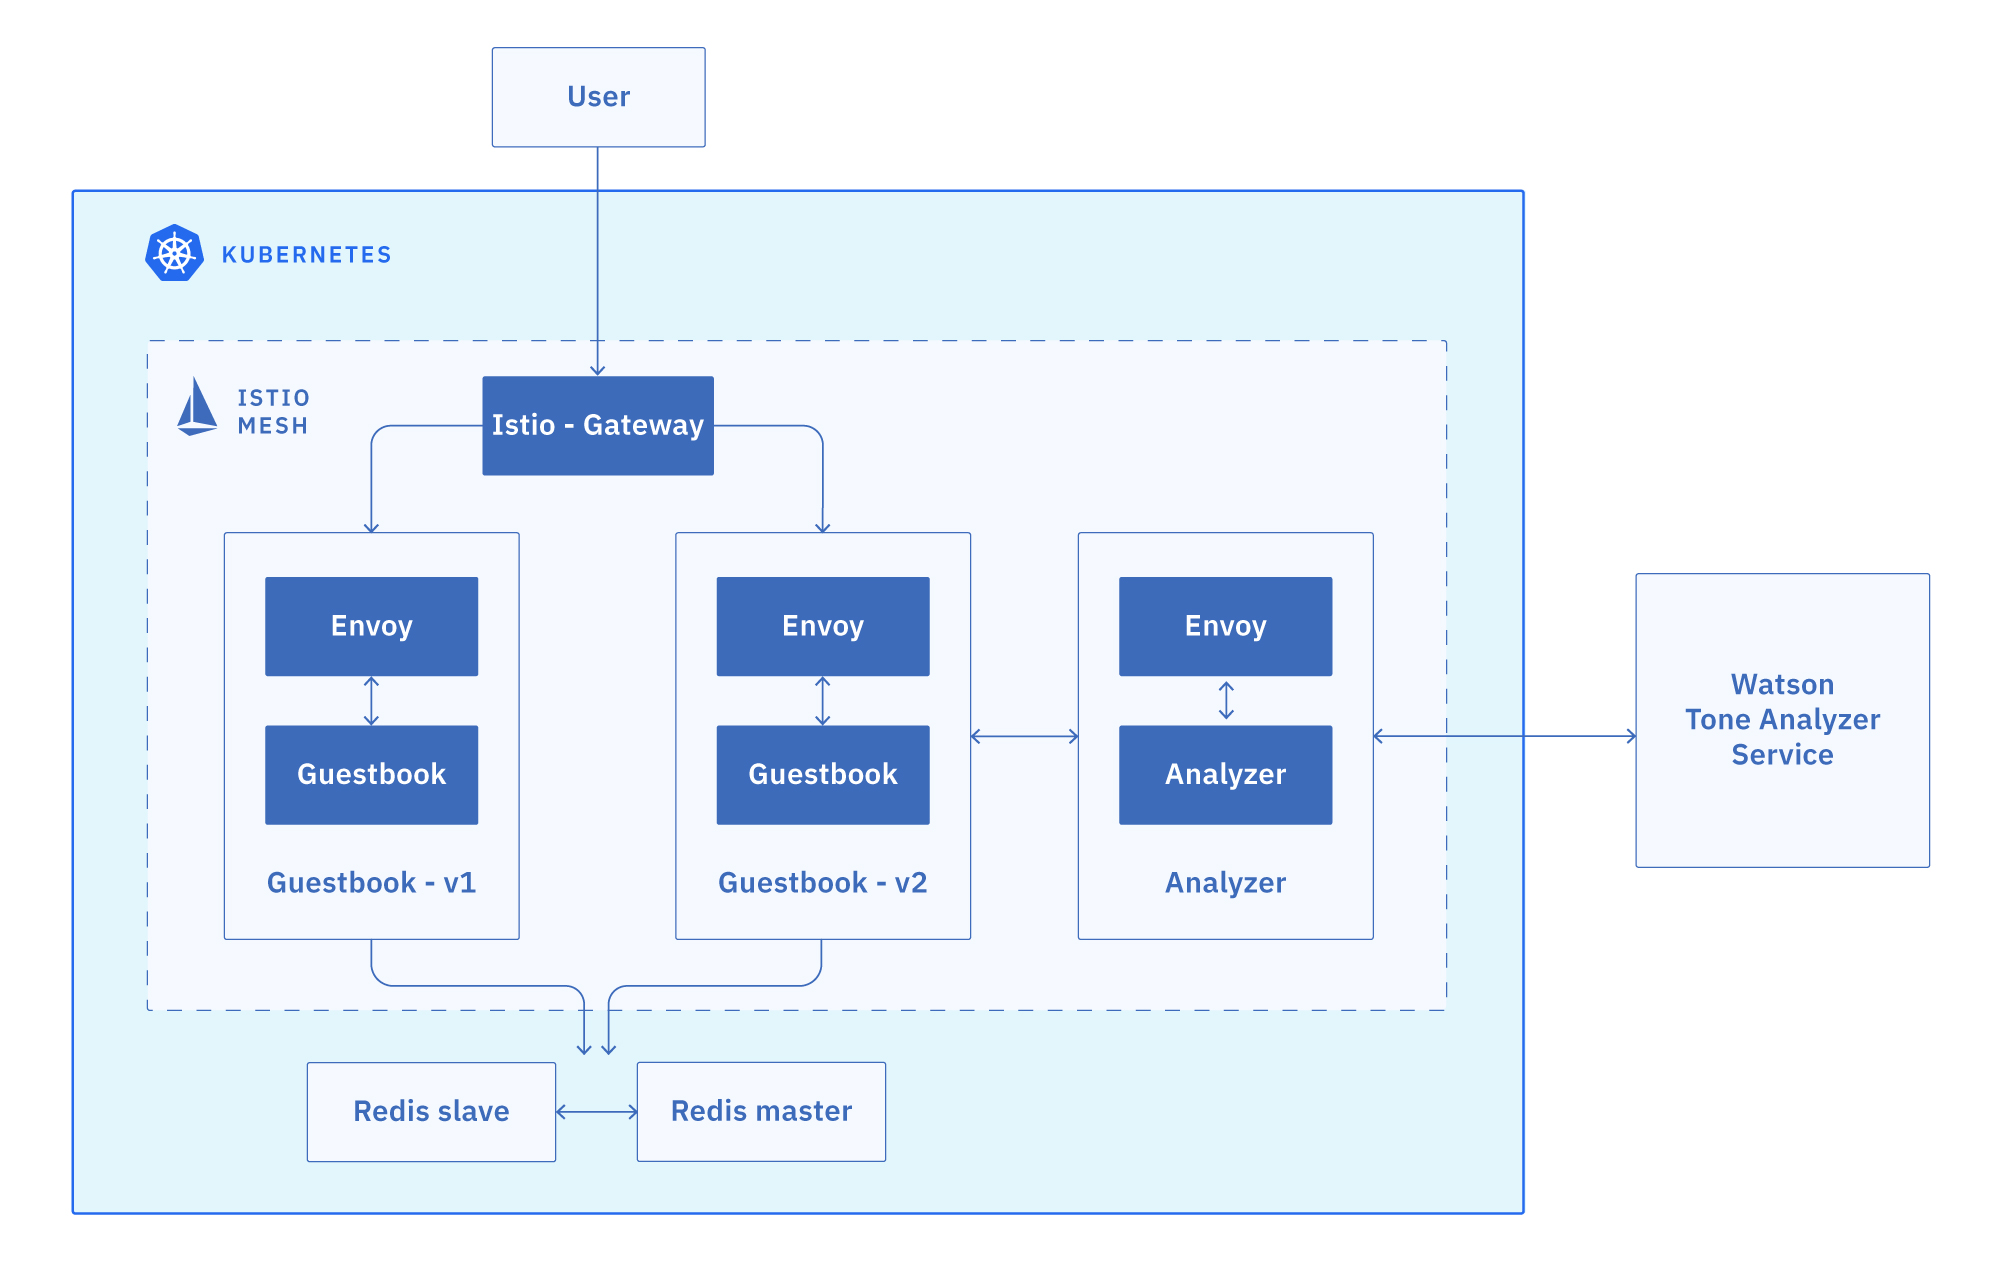
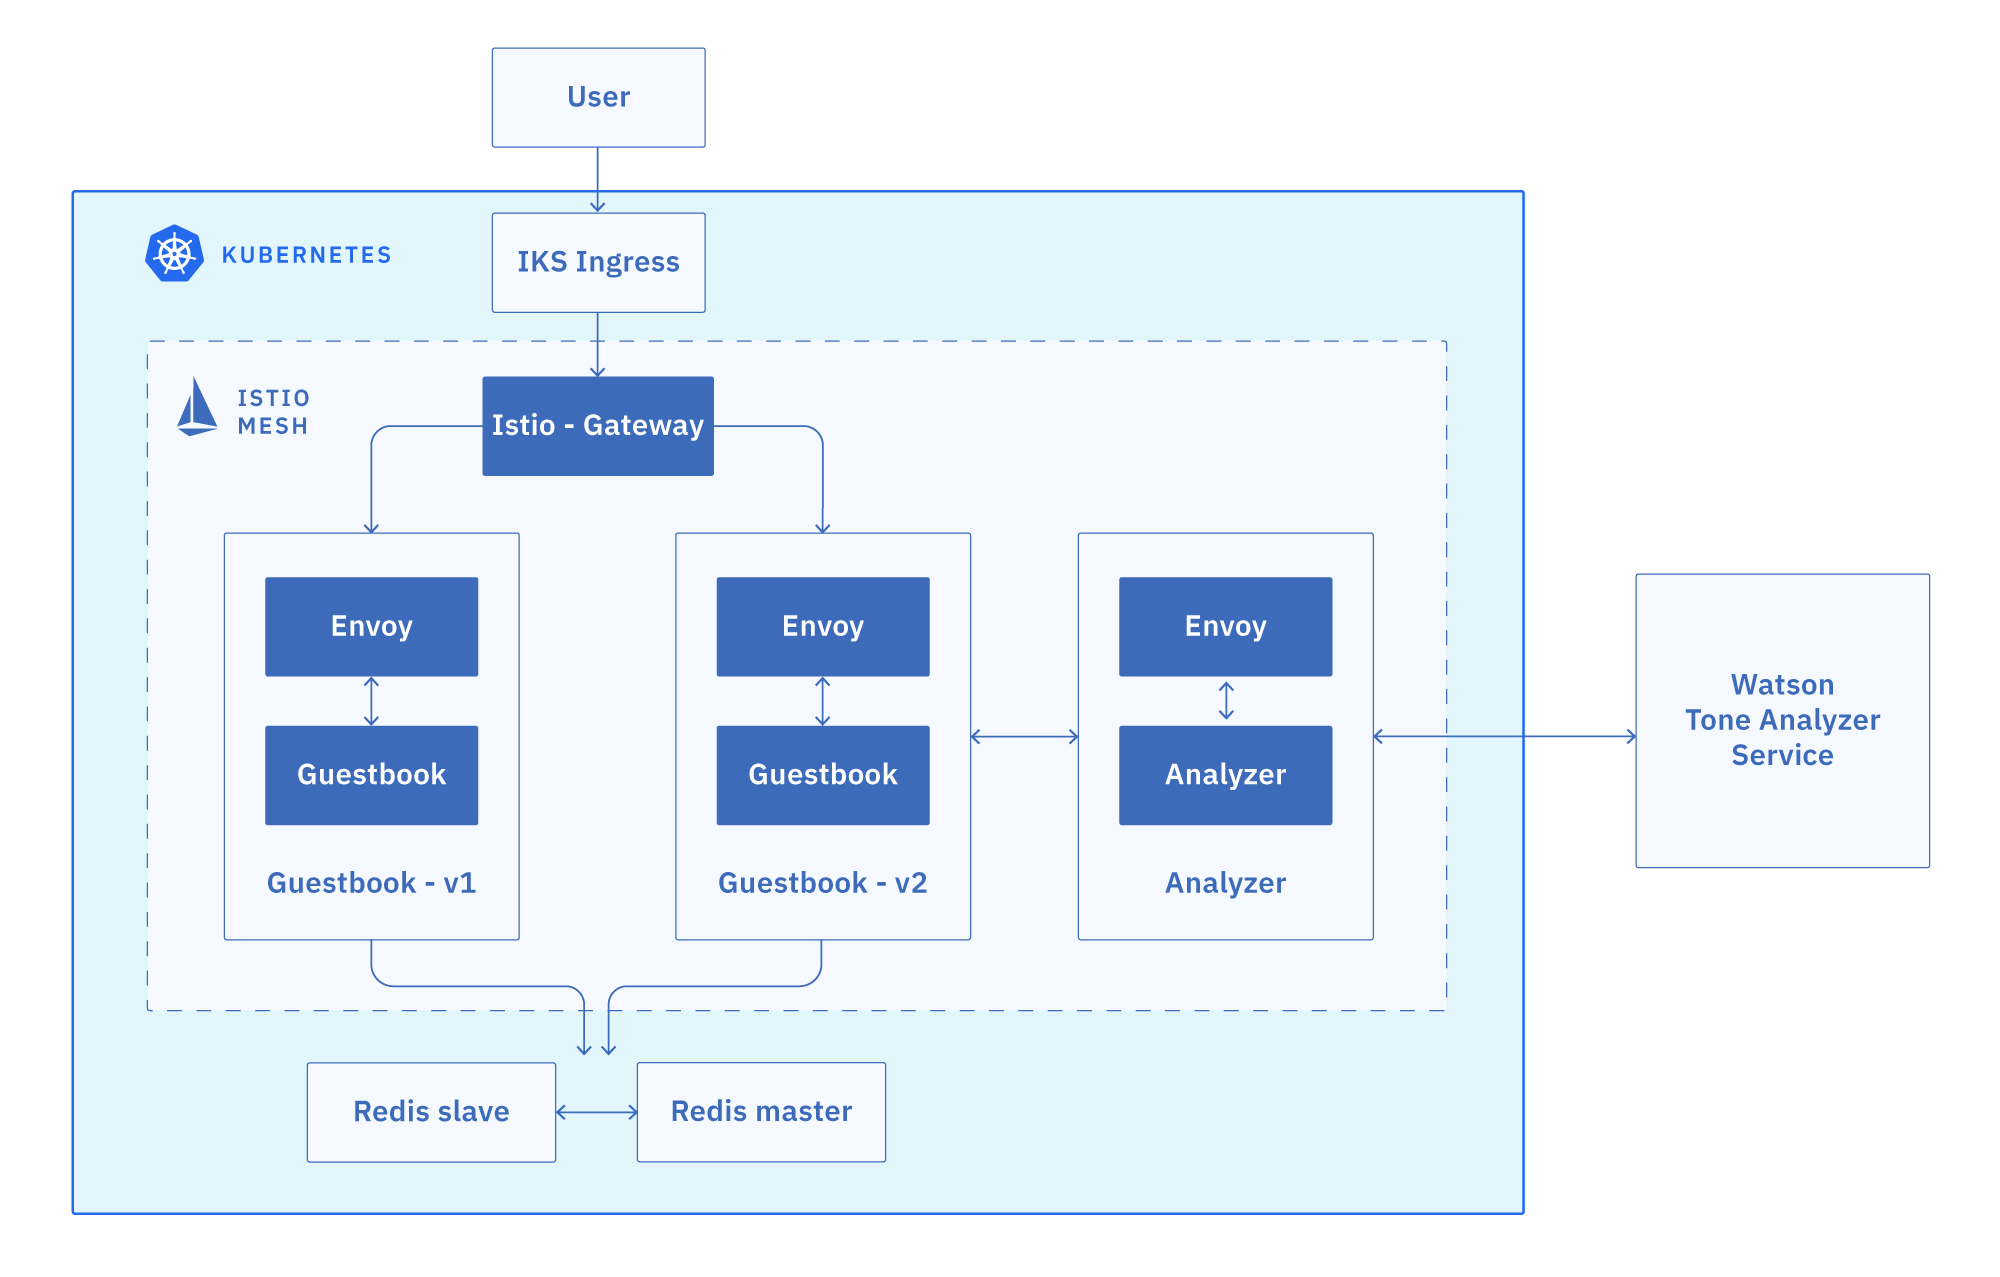
GitBook: [workshop] 3 pages and 5 assets modified

diff --git a/gitbook/overview/observe-telemetry.md b/gitbook/overview/observe-telemetry.md
@@ -53,7 +53,7 @@ We did a grep on the `<title>` from the curl response to show that the loadbalan
 
 ## View guestbook telemetry data
 
-#### Jaeger
+### Jaeger
 
 1. Establish port forwarding from local port 16686 to the Tracing instance:
 
@@ -74,7 +74,7 @@ We did a grep on the `<title>` from the curl response to show that the loadbalan
 
 1. ctrl-c on the terminal when you are done looking at the traces.
 
-#### Grafana
+### Grafana
 
 1. Establish port forwarding from local port 3000 to the Grafana instance:
 
@@ -90,7 +90,7 @@ We did a grep on the `<title>` from the curl response to show that the loadbalan
 
 1. ctrl-c on the terminal when you are done looking at the graph.
 
-#### Prometheus
+### Prometheus
 
 1. Establish port forwarding from local port 9090 to the Prometheus instance.
 
@@ -106,7 +106,7 @@ We did a grep on the `<title>` from the curl response to show that the loadbalan
 
 1. ctrl-c on the terminal when you are done looking at the logs.
 
-#### Service Graph
+### Service Graph
 
 1. Establish port forwarding from local port 8088 to the Service Graph instance:
 
@@ -120,7 +120,7 @@ We did a grep on the `<title>` from the curl response to show that the loadbalan
 
 ![service-logs](../.gitbook/assets/service-logs%20%281%29.png)
 
-#### Kiali
+### Kiali
 
 Kiali is an open-source project that installs on top of Istio to visualize your service mesh. It provides deeper insight into how your microservices interact with one another, and provides features such as circuit breakers and request rates for your services.
 
@@ -161,7 +161,10 @@ Kiali is an open-source project that installs on top of Istio to visualize your 
 
 2. Go to [http://localhost:8084](http://localhost:8084) to access kiali dashboard. Use admin/admin as username and password.
 3. Click the "Graph" tab on the left side to see the a visual service graph of the various services in your Istio mesh. You can see request rates as well by clicking the "Edge Labels" tab and choosing "Traffic rate per second".
-4. When done ctrl-c on terminal to close connection.
+
+![](../.gitbook/assets/image.png)
+
+4. On the terminal ctrl-c to close connection.
 
 ## Understand what happened
 

diff --git a/gitbook/overview/expose-service.md b/gitbook/overview/expose-service.md
@@ -4,7 +4,7 @@ The components deployed on the service mesh by default are not exposed outside t
 
 An Ingress Gateway resource can be created to allow external requests through the Istio Ingress Gateway to the backing services.
 
-![](../.gitbook/assets/image%20%282%29.png)
+![](../.gitbook/assets/image%20%284%29.png)
 
 ### Expose the Guestbook app with Ingress Gateway
 
@@ -46,7 +46,7 @@ The Ingress resource provides IBM Cloud users with a secure, reliable, and scala
 
 To use this IBM provided DNS for the Guestbook app, you must set the Kubernetes Ingress application load balancer \(ALB\) to route traffic to the Istio Ingress Gateway.
 
-![](../.gitbook/assets/image.png)
+![](../.gitbook/assets/image%20%282%29.png)
 
 1. Let's first check the IBM Ingress subdomain information.
 

diff --git a/gitbook/overview/setup.md b/gitbook/overview/setup.md
@@ -18,7 +18,7 @@ Generally to get started with Kubernetes, the first step is to provision a clust
 
 To get a cluster, head to the [Get Cluster](https://kubernetes-istio-workshop.mybluemix.net) tool.
 
-![](../.gitbook/assets/image%20%281%29.png)
+![](../.gitbook/assets/image%20%283%29.png)
 
 Use the key `istio_rocks_2019` and input the email you used to sign up for IBM Cloud. Ensure that US South is chosen as we've created clusters in the Dallas data center for this lab.
 
